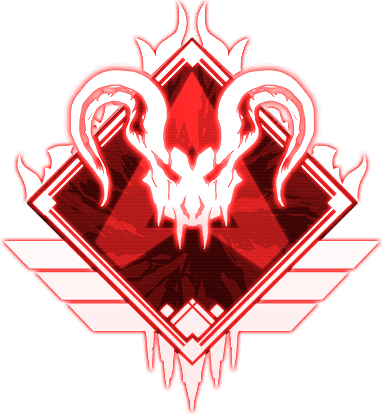
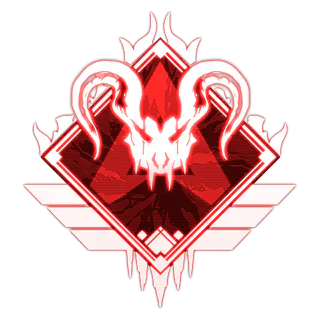
feat: add real S2-S29 transparent Predator badges and enlarge badge display

diff --git a/app/page.tsx b/app/page.tsx
@@ -226,13 +226,13 @@ export default function PredFinderPage() {
     <div className="min-h-screen bg-zinc-950 text-zinc-100">
       {/* シンプルヘッダー */}
       <header className="border-b border-zinc-900 bg-zinc-950/90 backdrop-blur sticky top-0 z-30">
-        <div className="max-w-5xl mx-auto px-4 h-14 flex items-center justify-between">
+        <div className="max-w-6xl mx-auto px-4 h-14 flex items-center justify-between">
           <div className="flex items-center gap-4">
             <div className="flex items-center gap-2">
               <img
                 src="/badges/s20.png"
                 alt="Predator"
-                className="w-7 h-7 object-contain"
+                className="w-8 h-8 object-contain"
               />
               <span className="font-black tracking-wider text-base text-white">
                 PRED FINDER
@@ -291,13 +291,13 @@ export default function PredFinderPage() {
         </div>
       </header>
 
-      <main className="max-w-5xl mx-auto px-4 py-6 space-y-6">
+      <main className="max-w-6xl mx-auto px-4 py-6 space-y-6">
         {activeMainTab === "search" ? (
           <>
-            {/* 検索パネル：画像と最小限の入力欄のみ */}
-            <section className="rounded-2xl bg-zinc-900/80 border border-zinc-800/90 p-4 sm:p-5 space-y-5">
-              {/* 1. メインバッジ画像選択 (S17〜S29) */}
-              <div className="space-y-2">
+            {/* 検索パネル：大きなバッジ画像と最小限の入力欄 */}
+            <section className="rounded-2xl bg-zinc-900/80 border border-zinc-800/90 p-4 sm:p-6 space-y-6">
+              {/* 1. メインバッジ画像選択 (S17〜S29 特大サイズ) */}
+              <div className="space-y-3">
                 <div className="flex items-center justify-between">
                   <span className="text-xs font-bold text-zinc-400">
                     シーズンバッジ (S17〜S29)
@@ -305,7 +305,7 @@ export default function PredFinderPage() {
                   <button
                     type="button"
                     onClick={() => setSelectedSeason("all")}
-                    className={`px-2.5 py-1 rounded-md text-xs font-mono font-bold transition cursor-pointer ${
+                    className={`px-3 py-1 rounded-lg text-xs font-mono font-bold transition cursor-pointer ${
                       selectedSeason === "all"
                         ? "bg-red-600 text-white"
                         : "bg-zinc-800 text-zinc-400 hover:text-white"
@@ -315,7 +315,7 @@ export default function PredFinderPage() {
                   </button>
                 </div>
 
-                <div className="grid grid-cols-4 sm:grid-cols-7 gap-2">
+                <div className="grid grid-cols-2 sm:grid-cols-4 md:grid-cols-5 gap-3">
                   {NUMBERED_SEASONS.map((sMeta) => {
                     const isSelected = selectedSeason === sMeta.season;
                     return (
@@ -327,17 +327,17 @@ export default function PredFinderPage() {
                             isSelected ? "all" : sMeta.season
                           )
                         }
-                        className={`rounded-xl py-2.5 px-1 border flex flex-col items-center justify-center transition cursor-pointer ${
+                        className={`rounded-2xl py-3 px-2 border flex flex-col items-center justify-center transition cursor-pointer ${
                           isSelected
-                            ? "bg-red-950/60 border-red-500 ring-1 ring-red-500"
-                            : "bg-zinc-950/70 border-zinc-800/80 hover:border-zinc-700"
+                            ? "bg-red-950/60 border-red-500 ring-2 ring-red-500/70 shadow-lg shadow-red-950/50"
+                            : "bg-zinc-950/80 border-zinc-800/80 hover:border-zinc-600 hover:bg-zinc-900"
                         }`}
                       >
                         <PredatorBadgeSvg
                           season={sMeta.season}
                           rank={isSelected && rankInput ? rankInput : undefined}
                           splitType={splitFilter === "single" ? "split1" : "both"}
-                          size="md"
+                          size="xl"
                           selected={isSelected}
                           showSeasonLabel
                         />
@@ -437,12 +437,12 @@ export default function PredFinderPage() {
                 </div>
               </div>
 
-              {/* 3. 他シーズン所持絞り込み（小さな実物バッジアイコン） */}
-              <div className="pt-3 border-t border-zinc-800/70 flex flex-wrap items-center gap-2">
-                <span className="text-xs font-bold text-zinc-400 mr-1">
-                  他枠バッジ絞り込み:
+              {/* 3. 他シーズン所持絞り込み（見やすい大きめの実物バッジアイコン） */}
+              <div className="pt-4 border-t border-zinc-800/70 space-y-2">
+                <span className="text-xs font-bold text-zinc-400 block">
+                  他枠バッジ絞り込み (S12〜S29)
                 </span>
-                <div className="flex flex-wrap gap-1.5">
+                <div className="grid grid-cols-6 sm:grid-cols-9 gap-2">
                   {FILTERABLE_ALL_SEASONS.map((sNum) => {
                     const active = requiredOtherSeasons.includes(sNum);
                     return (
@@ -450,16 +450,16 @@ export default function PredFinderPage() {
                         key={sNum}
                         type="button"
                         onClick={() => toggleOtherSeason(sNum)}
-                        className={`px-2 py-1 rounded-lg border flex items-center gap-1.5 transition cursor-pointer ${
+                        className={`p-2 rounded-xl border flex flex-col items-center gap-1 transition cursor-pointer ${
                           active
-                            ? "bg-amber-500/20 border-amber-400 text-amber-200"
-                            : "bg-zinc-950 border-zinc-800/90 text-zinc-400 hover:border-zinc-700"
+                            ? "bg-amber-500/20 border-amber-400 text-amber-200 ring-1 ring-amber-400"
+                            : "bg-zinc-950 border-zinc-800/90 text-zinc-400 hover:border-zinc-600"
                         }`}
                       >
                         <img
                           src={`/badges/s${sNum}.png`}
                           alt={`S${sNum}`}
-                          className="w-4 h-4 object-contain"
+                          className="w-12 h-12 object-contain"
                         />
                         <span className="text-xs font-mono font-bold">
                           S{sNum}
@@ -594,7 +594,7 @@ export default function PredFinderPage() {
                                 season={ach.season}
                                 rank={ach.rank}
                                 splitType={ach.splitType}
-                                size="sm"
+                                size="md"
                               />
                               <span className="mt-1.5 text-[10px] font-mono font-bold text-zinc-300">
                                 S{ach.season}

diff --git a/components/PredatorBadgeSvg.tsx b/components/PredatorBadgeSvg.tsx
@@ -22,16 +22,25 @@ export function PredatorBadgeSvg({
 }: PredatorBadgeSvgProps) {
   const isAnimated = splitType === "both" || splitType === "all";
   const px =
-    size === "xl" ? 104 : size === "lg" ? 84 : size === "md" ? 64 : 44;
+    size === "xl" ? 132 : size === "lg" ? 96 : size === "md" ? 76 : 54;
 
-  // s2.png ~ s29.png まで対応
+  // s2.png ~ s29.png 全シーズン実物透過バッジ対応
   const safeSeason = Math.min(Math.max(season, 2), 29);
   const imgSrc = `/badges/s${safeSeason}.png`;
+
+  const fontSize =
+    size === "xl"
+      ? "text-sm"
+      : size === "lg"
+      ? "text-xs"
+      : size === "md"
+      ? "text-[11px]"
+      : "text-[9px]";
 
   return (
     <div
       className={`relative inline-flex flex-col items-center justify-center select-none transition-transform duration-150 ${
-        selected ? "scale-105" : ""
+        selected ? "scale-105" : "hover:scale-105"
       }`}
     >
       <div
@@ -40,22 +49,24 @@ export function PredatorBadgeSvg({
       >
         {/* 両スプ発光エフェクト */}
         {isAnimated && (
-          <div className="absolute inset-1 rounded-full bg-red-600/45 blur-md animate-pulse pointer-events-none" />
+          <div className="absolute inset-2 rounded-full bg-red-600/40 blur-lg animate-pulse pointer-events-none" />
         )}
 
-        {/* 実際のApexプレデターバッジ画像 */}
+        {/* 実際のApexプレデターバッジ透過画像 (S2〜S29) */}
         <img
           src={imgSrc}
           alt={`S${season} Predator`}
           width={px}
           height={px}
-          className="w-full h-full object-contain relative z-10 drop-shadow-[0_4px_8px_rgba(0,0,0,0.75)]"
+          className="w-full h-full object-contain relative z-10 drop-shadow-[0_6px_12px_rgba(0,0,0,0.85)]"
           loading="lazy"
         />
 
-        {/* S17以降の順位ナンバープレート */}
+        {/* S17以降のバッジ下部・赤い六角プレート内に順位ナンバーを刻印 */}
         {rank !== undefined && rank !== "" && (
-          <span className="absolute -bottom-1.5 z-20 px-1.5 py-0.2 rounded bg-zinc-950/95 border border-red-500/80 text-[11px] font-mono font-black text-white leading-tight shadow">
+          <span
+            className={`absolute bottom-[13%] z-20 font-mono font-black text-white tracking-tighter drop-shadow-[0_1px_3px_rgba(0,0,0,0.95)] ${fontSize}`}
+          >
             #{rank}
           </span>
         )}
@@ -63,8 +74,8 @@ export function PredatorBadgeSvg({
 
       {showSeasonLabel && (
         <span
-          className={`mt-1.5 text-xs font-mono font-bold ${
-            selected ? "text-red-400" : "text-zinc-400"
+          className={`mt-1 text-sm font-mono font-black tracking-wide ${
+            selected ? "text-red-400" : "text-zinc-200"
           }`}
         >
           S{season}
